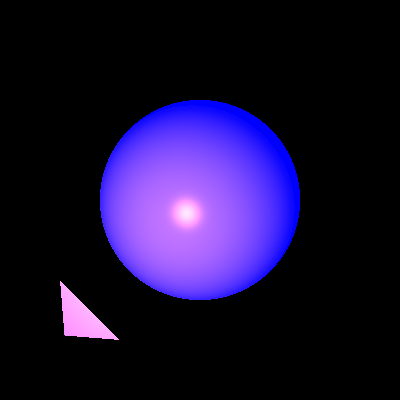
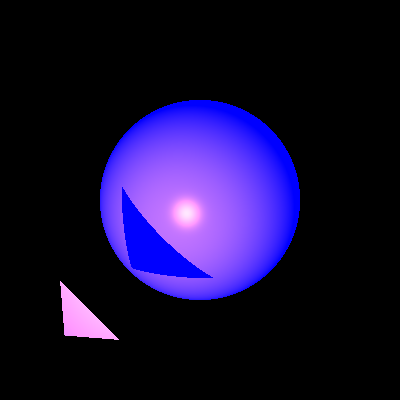
Finished first part of Stage 7.

Changed region(s): [[0.3, 0.48, 0.54, 0.72]]

diff --git a/unitTests/renderer/ShadowTests.java b/unitTests/renderer/ShadowTests.java
@@ -24,12 +24,17 @@ public class ShadowTests
 {
 	private Intersectable sphere = new Sphere(60d, new Point(0, 0, -200))                                         //
 			.setEmission(new Color(BLUE))                                                                                  //
-			.setMaterial(new Material().setKd(0.5).setKs(0.5).setShininess(30));
-	private Material trMaterial = new Material().setKd(0.5).setKs(0.5).setShininess(30);
+			.setMaterial(new Material().setKd(0.5)
+								 .setKs(0.5)
+								 .setShininess(30));
+	private Material trMaterial = new Material().setKd(0.5)
+			.setKs(0.5)
+			.setShininess(30);
 	
 	private Scene scene = new Scene.SceneBuilder("Test scene").build();
 	private Camera camera = new Camera(new Point(0, 0, 1000), new Vector(0, 0, -1), new Vector(0, 1, 0))   //
-			.setVPSize(200, 200).setVPDistance(1000)                                                                       //
+			.setVPSize(200, 200)
+			.setVPDistance(1000)                                                                       //
 			.setRayTracer(new RayTracerBasic(scene));
 	
 	/**
@@ -37,13 +42,15 @@ public class ShadowTests
 	 */
 	void sphereTriangleHelper(String pictName, Triangle triangle, Point spotLocation)
 	{
-		scene.geometries.add(sphere, triangle.setEmission(new Color(BLUE)).setMaterial(trMaterial));
+		scene.geometries.add(sphere, triangle.setEmission(new Color(BLUE))
+				.setMaterial(trMaterial));
 		scene.lights.add( //
-				new SpotLight(new Color(400, 240, 0), spotLocation, new Vector(1, 1, -3)) //
-						.setKl(1E-5).setKq(1.5E-7));
-		camera.setImageWriter(new ImageWriter(pictName, 400, 400)) //
-				.renderImage() //
-				.writeToImage();
+						  new SpotLight(new Color(400, 240, 0), spotLocation, new Vector(1, 1, -3)) //
+								  .setKl(1E-5)
+								  .setKq(1.5E-7));
+		camera.setImageWriter(new ImageWriter(pictName, 400, 400)); //
+		camera.renderImage(); //
+		camera.writeToImage();
 	}
 	
 	/**
@@ -53,80 +60,96 @@ public class ShadowTests
 	public void sphereTriangleInitial()
 	{
 		sphereTriangleHelper("shadowSphereTriangleInitial", //
-				new Triangle(new Point(-70, -40, 0), new Point(-40, -70, 0), new Point(-68, -68, -4)), //
-				new Point(-100, -100, 200));
+							 new Triangle(new Point(-40, -70, 0), new Point(-70, -40, 0), new Point(-68, -68, -4)), //
+							 new Point(-100, -100, 200));
 	}
 	
-//	/**
-//	 * Sphere-Triangle shading - move triangle up-right
-//	 */
-//	@Test
-//	public void sphereTriangleMove1()
-//	{
-//		sphereTriangleHelper("shadowSphereTriangleMove2", //
-//				new Triangle(new Point( ? ? ?, ???, ???),new Point( ???, ???, ???),new Point( ???, ???, ???)), //
-//		new Point(-100, -100, 200));
-//	}
-//
-//	/**
-//	 * Sphere-Triangle shading - move triangle upper-righter
-//	 */
-//	@Test
-//	public void sphereTriangleMove2()
-//	{
-//		sphereTriangleHelper("shadowSphereTriangleMove1", //
-//				new Triangle(new Point( ? ? ?, ???, ???),new Point( ???, ???, ???),new Point( ???, ???, ???)), //
-//		new Point(-100, -100, 200));
-//	}
-//
-//	/**
-//	 * Sphere-Triangle shading - move spot closer
-//	 */
-//	@Test
-//	public void sphereTriangleSpot1()
-//	{
-//		sphereTriangleHelper("shadowSphereTriangleSpot1", //
-//				new Triangle(new Point(-70, -40, 0), new Point(-40, -70, 0), new Point(-68, -68, -4)), //
-//				new Point( ? ??, ???, ???));
-//	}
-//
-//	/**
-//	 * Sphere-Triangle shading - move spot even more close
-//	 */
-//	@Test
-//	public void sphereTriangleSpot2()
-//	{
-//		sphereTriangleHelper("shadowSphereTriangleSpot2", //
-//				new Triangle(new Point(-70, -40, 0), new Point(-40, -70, 0), new Point(-68, -68, -4)), //
-//				new Point( ? ??, ???, ???));
-//	}
+	/**
+	 * Sphere-Triangle shading - move triangle up-right
+	 */
+	
+	@Test
+	public void sphereTriangleMove1()
+	{
+		sphereTriangleHelper("shadowSphereTriangleMove2", //
+							 new Triangle(new Point(-60, -30, 0), new Point(-30, -60, 0), new Point(-58, -58, -4)), //
+							 new Point(-100, -100, 200));
+	}
 	
 	/**
-	 * Produce a picture of two triangles lighted by a spot light with a Sphere
+	 * Sphere-Triangle shading - move triangle upper-righter
+	 */
+	
+	@Test
+	public void sphereTriangleMove2()
+	{
+		sphereTriangleHelper("shadowSphereTriangleMove1", //
+							 new Triangle(new Point(-50, -20, 0), new Point(-20, -50, 0), new Point(-48, -48, -4)), //
+							 new Point(-100, -100, 200));
+	}
+	
+	/**
+	 * Sphere-Triangle shading - move spot closer
+	 */
+	@Test
+	public void sphereTriangleSpot1()
+	{
+		sphereTriangleHelper("shadowSphereTriangleSpot1", //
+							 new Triangle(new Point(-70, -40, 0), new Point(-40, -70, 0), new Point(-68, -68, -4)), //
+							 new Point(-85, -85, 120));
+	}
+	
+	/**
+	 * Sphere-Triangle shading - move spot even more close
+	 */
+	@Test
+	public void sphereTriangleSpot2()
+	{
+		sphereTriangleHelper("shadowSphereTriangleSpot2", //
+							 new Triangle(new Point(-70, -40, 0), new Point(-40, -70, 0), new Point(-68, -68, -4)), //
+							 new Point(-80, -80, 75));
+	}
+	
+	/**
+	 * Produce a picture of a two triangles lighted by a spot light with a Sphere
 	 * producing a shading
 	 */
 	@Test
 	public void trianglesSphere()
 	{
-		scene.ambientLight = new AmbientLight(new Color(WHITE), 0.15);
+		Scene scene2 = new Scene.SceneBuilder("Test scene2").setAmbientLight(new AmbientLight(new Color(WHITE), 0.15))
+				.build();
 		
-		scene.geometries.add( //
+		
+		scene2.geometries.add(
 				new Triangle(new Point(-150, -150, -115), new Point(150, -150, -135),
-						new Point(75, 75, -150)) //
-						.setMaterial(new Material().setKs(0.8).setShininess(60)), //
-				new Triangle(new Point(-150, -150, -115), new Point(-70, 70, -140), new Point(75, 75, -150)) //
-						.setMaterial(new Material().setKs(0.8).setShininess(60)), //
+							 new Point(75, 75, -150)) //
+						.setMaterial(new Material().setKs(0.8)
+											 .setShininess(60)), //
+				new Triangle(new Point(-150, -150, -115),
+							 new Point(-70, 70, -140),
+							 new Point(75, 75, -150)) //
+						.setMaterial(new Material().setKs(0.8)
+											 .setShininess(60)), //
 				new Sphere(30d, new Point(0, 0, -11)) //
 						.setEmission(new Color(BLUE)) //
-						.setMaterial(new Material().setKd(0.5).setKs(0.5).setShininess(30)) //
-		);
-		scene.lights.add( //
-				new SpotLight(new Color(700, 400, 400), new Point(40, 40, 115), new Vector(-1, -1, -4)) //
-						.setKl(4E-4).setKq(2E-5));
+						.setMaterial(new Material().setKd(0.5)
+											 .setKs(0.5)
+											 .setShininess(30)) //
+							 );
+		scene2.lights.add( //
+						   new SpotLight(new Color(700, 400, 400), new Point(40, 40, 115), new Vector(-1, -1, -4)) //
+								   .setKl(4E-4)
+								   .setKq(2E-5));
 		
-		camera.setImageWriter(new ImageWriter("shadowTrianglesSphere", 600, 600)) //
-				.renderImage() //
-				.writeToImage();
+		Camera camera2 = new Camera(new Point(0, 0, 1000), new Vector(0, 0, -1), new Vector(0, 1, 0))   //
+				.setVPSize(200, 200)
+				.setVPDistance(1000)                                                                       //
+				.setRayTracer(new RayTracerBasic(scene2));
+		
+		camera2.setImageWriter(new ImageWriter("shadowTrianglesSphere", 600, 600)); //
+		camera2.renderImage(); //
+		camera2.writeToImage();
 	}
 	
 }

diff --git a/src/renderer/RayTracerBasic.java b/src/renderer/RayTracerBasic.java
@@ -75,21 +75,22 @@ public class RayTracerBasic extends RayTracerBase
         Vector n = gp.geometry.getNormal(gp.point);
         double nv = alignZero(n.dotProduct(v));
         
-        if (nv == 0) return color;
+        if (nv == 0)
+            return color;
        
         Material material = gp.geometry.getMaterial();
-        
         for (LightSource lightSource: scene.lights)
         {
             Vector l = lightSource.getL(gp.point);
             double nl = alignZero(n.dotProduct(l));
             
             if (nl * nv > 0)
-            { // sign(nl) == sing(nv)
-                if (unshaded(gp, lightSource, l, n))
+            { // sign(nl) == sign(nv)
+                if (unshaded(gp, lightSource, l, n, nl))
                 {
                     Color iL = lightSource.getIntensity(gp.point);
-                    color = color.add(iL.scale(calcDiffusive(material, nl)),
+                    color = color.add(
+                            iL.scale(calcDiffusive(material, nl)),
                             iL.scale(calcSpecular(material, n, l, nl, v)));
                 }
             }
@@ -111,11 +112,12 @@ public class RayTracerBasic extends RayTracerBase
     private Double3 calcSpecular(Material material, Vector n, Vector l, double nl, Vector v)
     {
         Vector r = l.add(n.scale(-2 * nl));
-        
-        r = r.scale(-1);
-        double specular = alignZero(Math.pow(r.dotProduct(v), material.nShininess));
-        
-        return material.kS.scale(specular > 0 ? specular : 0);
+        double minusVR = -alignZero(r.dotProduct(v));
+        if (minusVR <= 0)
+            return Double3.ZERO; // view from direction opposite to r vector
+//        r = r.scale(-1);
+//        double specular = alignZero(Math.pow(r.dotProduct(v), material.nShininess));
+        return material.kS.scale(Math.pow(minusVR, material.nShininess));
     }
     
     /**
@@ -128,7 +130,7 @@ public class RayTracerBasic extends RayTracerBase
      */
     private Double3 calcDiffusive(Material material, double nl)
     {
-        return material.kD.scale(nl > 0 ? nl : (-1) * nl);
+        return material.kD.scale(nl >= 0 ? nl : (-1) * nl);
     }
     
     /**
@@ -140,20 +142,17 @@ public class RayTracerBasic extends RayTracerBase
      * @param n the surface normal at the intersection point
      * @return true if the point is unshaded, false otherwise
      */
-    private boolean unshaded(GeoPoint gp, LightSource light, Vector l, Vector n)
+    private boolean unshaded(GeoPoint gp, LightSource light, Vector l, Vector n, double nl)
     {
         Vector lightDirection = l.scale(-1); // from point to light source
         
-        Vector  deltaVector = n.scale(DELTA);
+        Vector deltaVector = n.scale(nl < 0 ? DELTA : -DELTA);
         Point point = gp.point.add(deltaVector);
         
         Ray lightRay = new Ray(point, lightDirection);
-        double distance = light.getDistance(gp.point);
+        double distance = light.getDistance(point);
         List<GeoPoint> intersections = scene.geometries.findGeoIntersections(lightRay, distance);
         
-        if(intersections == null)
-            return true;
-        
-       return false;
+        return intersections == null;
     }
 }

diff --git a/src/geometries/Sphere.java b/src/geometries/Sphere.java
@@ -73,16 +73,16 @@ public class Sphere extends RadialGeometry
         {
             u = center.subtract(ray.getP0()); // if the ray start at the center we go to catch
 
-            tm = u.dotProduct(ray.getDir());
+            tm = alignZero(u.dotProduct(ray.getDir()));
 
-            double d = u.lengthSquared() - tm * tm; // we will use sqrt only once in this function
+            double d = alignZero(u.lengthSquared() - tm * tm); // we will use sqrt only once in this function
 
             if (d >= radius * radius) // there are no intersections
             {
                 return null;
             }
 
-            th = sqrt(radius * radius - d);
+            th = alignZero(sqrt(radius * radius - d));
         }
         catch(IllegalArgumentException e)
         {
@@ -100,8 +100,8 @@ public class Sphere extends RadialGeometry
         }
         
         if(t1 > 0 && t2 > 0
-                && alignZero(t1 - maxDistance) < 0
-                && alignZero(t2 - maxDistance) < 0)
+                && alignZero(t1 - maxDistance) <= 0
+                && alignZero(t2 - maxDistance) <= 0)
         {
             return List.of(
                     new GeoPoint(this, ray.getPoint(t1)),
@@ -109,12 +109,12 @@ public class Sphere extends RadialGeometry
         }
 
         // might be only 1 intersection
-        if (t1 > 0 && alignZero(t1 - maxDistance) < 0)
+        if (t1 > 0 && alignZero(t1 - maxDistance) <= 0)
         {
             return List.of(new GeoPoint(this, ray.getPoint(t1)));
         }
         
-        if (t2 > 0 && alignZero(t2 - maxDistance) < 0)
+        if (t2 > 0 && alignZero(t2 - maxDistance) <= 0)
         {
             return List.of(new GeoPoint(this, ray.getPoint(t2)));
         }

diff --git a/src/geometries/Plane.java b/src/geometries/Plane.java
@@ -100,7 +100,7 @@ public class Plane extends Geometry
 	 * @return a list of GeoPoint objects representing the intersections, or null if no intersection was found
 	 */
 	@Override
-	public List<GeoPoint> findGeoIntersectionsHelper(Ray ray, double maxDistance)
+	protected List<GeoPoint> findGeoIntersectionsHelper(Ray ray, double maxDistance)
 	{
 		double temp, t;
 		Vector vec;
@@ -123,20 +123,17 @@ public class Plane extends Geometry
 		}
 		
 		temp = vec.dotProduct(normal);
-		t = temp / t;
+		t = alignZero(temp / t);
 		
-		if (t <= 0)
+		if (t > 0)
 		{ // direction is opposite
-			return null;
+			if (alignZero(t - maxDistance) < 0)
+			{
+				return List.of(new GeoPoint(this, ray.getPoint(t)));
+			}
 		}
 		
-		if (alignZero(t - maxDistance) > 0)
-		{
-			return null;
-		}
-		
-		return List.of(new GeoPoint(this, ray.getPoint(t)));
+		return null;
 	}
-	
 }
 

diff --git a/src/lighting/PointLight.java b/src/lighting/PointLight.java
@@ -4,6 +4,8 @@ import primitives.Color;
 import primitives.Point;
 import primitives.Vector;
 
+import static primitives.Util.alignZero;
+
 /**
  * The PointLight class represents a point light source, which emits light uniformly in all
  * directions from a specific position.
@@ -109,6 +111,6 @@ public class PointLight extends Light implements LightSource
     @Override
     public double getDistance(Point point)
     {
-        return position.distance(position);
+        return alignZero(position.distance(point));
     }
 }
